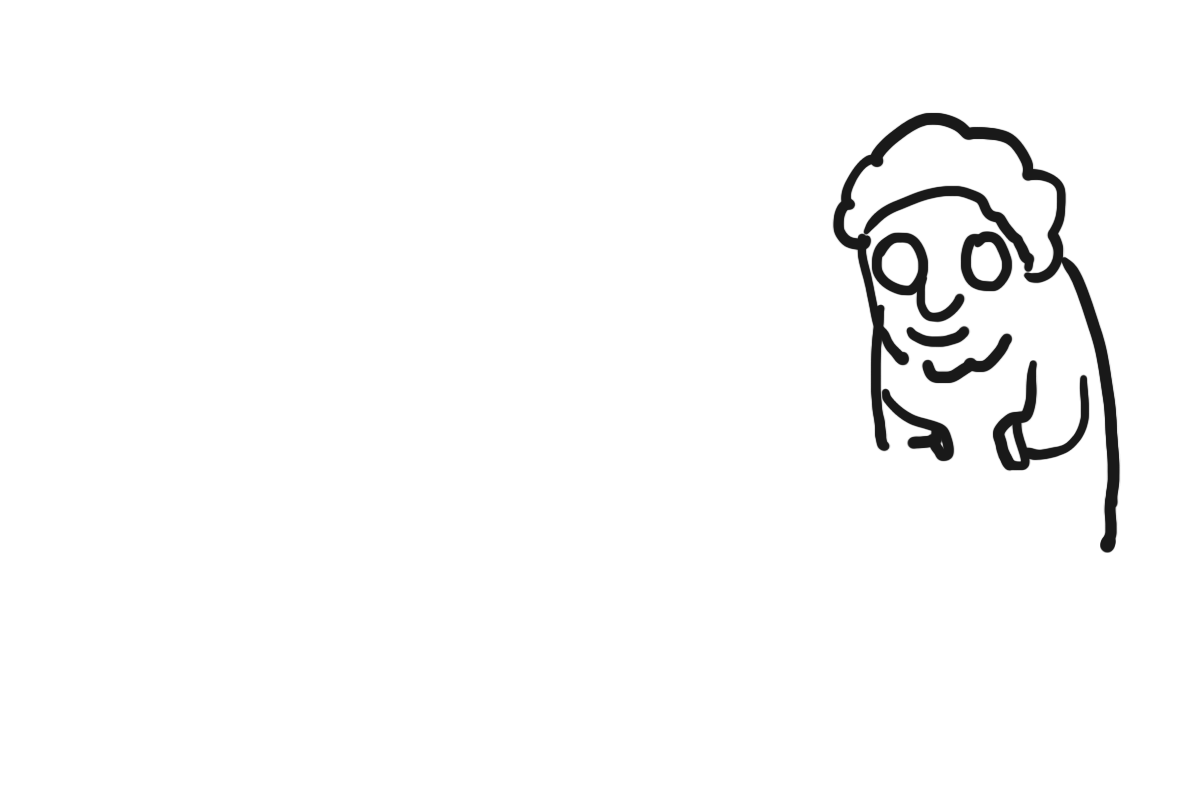
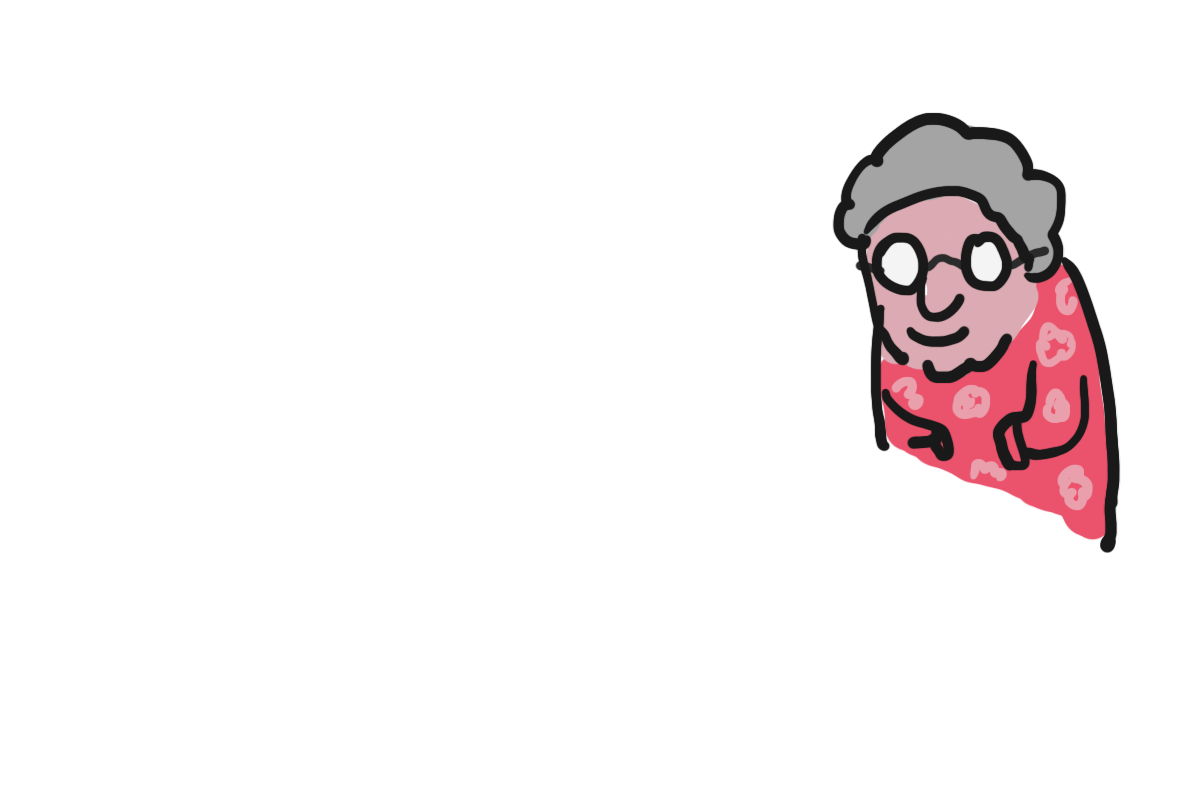
yayy

Changed region(s): [[0.6783, 0.1562, 0.925, 0.6875]]

diff --git a/view.js b/view.js
@@ -7,7 +7,9 @@ function drawButton(){
 }
 
 function drawKulOMeter(){
-    kulOMeter.innerHTML = kulness;
+    kulOMeter.innerHTML = `Kul-o-Meter:
+    <div style="background-color:blueviolet; width:${kulness}%;">${kulness}</div>
+    `
 }
 function drawView(){
     let htmlString = ``;
@@ -30,7 +32,23 @@ app.innerHTML = htmlString;
 
 function runEvents(){
     let rand = randNumGen();
+    rev.play();
+    if (kulness <= 0){
+        let htmlString = `
+        Grandma is cooler than you...
+        `
+        app.innerHTML = htmlString;
+        app2.innerHTML ="";
+    }
+    else if (kulness >= 100){
+        let htmlString = `
+        You're just too cool!
+        `
+        app.innerHTML = htmlString;
+        app2.innerHTML ="";
+    }
 
+    else if (rand == 1 || rand == 2 || rand == 3 || rand == 4){
     prompt.targetLayer = rand;
     prompt.active = true;
     prompt.message = messages[rand];
@@ -38,8 +56,65 @@ function runEvents(){
     let htmlString = `
     <label style="font-size: 36px;">${prompt.message}</label>
     <button onclick="yesOption(${rand})">YES</button>
+    <button onclick="noOption(${rand})">NO</button>
     `
 
     app2.innerHTML = htmlString;
+
+    }
+// kompis elseif
+    else if(rand == 5){
+        prompt.targetLayer = rand;
+        prompt.active = true;
+        prompt.message = messages[rand];
+        layers[rand].visible = true;
+        drawView()
+
+        let htmlString = /*html*/`
+        <label style="font-size: 36px;">${prompt.message}</label>
+        <button onclick="greetBuddy(1)">Wave</button>
+        <button onclick="greetBuddy(2)">Flip Off</button>
+        <button onclick="greetBuddy(3)">Bro Fist</button>
+        `
+        app2.innerHTML = htmlString;
+    }
+// bestemor elseif
+    else if(rand == 6){
+        prompt.targetLayer = rand;
+        prompt.active = true;
+        prompt.message = messages[rand];
+        layers[rand].visible = true;
+        drawView()
+
+        let htmlString = `
+        <label style="font-size: 36px;">${prompt.message}</label>
+        <button onclick="grandma('stop')">YES</button>
+        <button onclick="grandma('drive')">NO</button>
+
+        `
+        app2.innerHTML = htmlString;
+    }
 }
 
+function grandma(stopOrDrive){
+    if(stopOrDrive=='stop'){
+        kulness = kulness-5;
+        let htmlString = `
+        <div style="font-size: 36px;">You spend a long time listening to grandma and loose kulness</div>
+        `
+        app2.innerHTML = htmlString;
+        drawKulOMeter()
+    }
+    else if(stopOrDrive=='drive'){
+        kulness = kulness-10;
+        let htmlString = `
+        <div style="font-size: 36px;">Grandma is mad you ignored her and smacks your car with her purse causing you to loose kulness</div>
+        `
+        app2.innerHTML = htmlString;
+        drawKulOMeter()
+    }
+
+    layers[6].visible = false;
+    drawView();
+    setTimeout(runEvents, 4000)
+}

diff --git a/model.js b/model.js
@@ -1,15 +1,17 @@
-let kulness = 10;
-let kompisNumber = Math.floor(Math.random()*3)+1;
+let kulness = 20;
 const kulOMeter = document.getElementById('kulometerID');
 const app = document.getElementById('appID');
 const app2 = document.getElementById('app2ID');
+const rev = document.getElementById('revID');
 
 let layers = [
     {id: "bg", src: "media/bg.png", zIndex: 0, visible: true},
-    {id: "wunderbaum", src: "media/wunderbaum.png", zIndex: 1, visible: false},
-    {id: "ekorn", src: "media/ekorn.png", zIndex: 2, visible: false},
-    {id: "kompis", src: "media/kompis.png", zIndex: 3, visible: false},
-    {id: "bestemor", src: "media/bestemor.png", zIndex: 4, visible: false}
+    {id: "wunderbaum", src: "media/wunderbaum.png", zIndex: 2, visible: false},
+    {id: "ekorn", src: "media/ekorn.png", zIndex: 3, visible: false},
+    {id: "paint", src: "media/paint.png", zIndex: 1, visible: false},
+    {id: "ratt", src: "media/ratt.png", zIndex: 4, visible: false},
+    {id: "kompis", src: "media/kompis.png", zIndex: 5, visible: false},
+    {id: "bestemor", src: "media/bestemor.png", zIndex: 6, visible: false}
 ]
 
 let prompt = [
@@ -17,8 +19,10 @@ let prompt = [
 ]
 
 let messages = {
-    1: "Pick up wunderbaum?",
-    2: "Pick up ekorn?",
-    3: "How do you greet your buddy?",
-    4: "Stop for grandma?"
+    1: "You drive past a wunderbaum, put it in your car?",
+    2: "You spot a squirrel, put it in your car?",
+    3: "You spot some paint on the side of the road, paint car?",
+    4: "You drive past some pink fur, add it to your car?",
+    5: "Your buddy stops you on your drive, what do you respond?",
+    6: "Grandma is waiting up ahead, stop to see what she wants?"
 }

diff --git a/controller.js b/controller.js
@@ -1,29 +1,61 @@
-function startGame(){
+function startGame() {
     drawKulOMeter()
     drawView()
     setTimeout(runEvents, 3000);
 }
 
-function randNumGen(){
-    let randomNumber = Math.floor(Math.random() * 4) + 1;
+function randNumGen() {
+    let randomNumber = Math.floor(Math.random() * 6) + 1;
     return randomNumber;
 }
 
 
-
-function yesOption(rand){
-    if (rand == 3){
-        score = score + 10;
+function yesOption(rand) {
+    app2.innerHTML="";
+    if (rand == 1 || rand == 3) {
+        kulness = kulness + 10;
     }
-    else if (rand == 3){
-        score = score - 10;
+    else if (rand == 2 || rand == 4) {
+        kulness = kulness - 10;
     }
     layers[rand].visible = true;
-    renderLayers();
-    drawScore();
+    drawView();
+    drawKulOMeter();
     setTimeout(startGame, 3000);
 }
 
-function noOption(rand){
+function noOption(rand) {
+    app2.innerHTML="";
     setTimeout(runEvents, 3000);
+}
+
+function greetBuddy(chosenGreeting) {
+    app2.innerHTML="";
+    let kompisNumber = Math.floor(Math.random() * 3) + 1;
+    if (chosenGreeting === kompisNumber) {
+        kulness = kulness + 10;
+        
+        let htmlString = `
+        <div style="font-size: 36px;">Hehe, you're allright, bro...</div>
+        `
+        app2.innerHTML = htmlString;
+
+        drawKulOMeter();
+    }
+
+    else if(chosenGreeting !== kompisNumber){
+        kulness = kulness - 10;
+        
+        let htmlString = `
+        <div style="font-size: 36px;">Get outta here, douchebag!</div>
+        `
+        app2.innerHTML = htmlString;
+
+        drawKulOMeter();
+    }
+
+    layers[5].visible = false;
+    drawView();
+    setTimeout(runEvents, 3000);
+
 }

diff --git a/index.html b/index.html
@@ -4,11 +4,13 @@
     <meta charset="UTF-8">
     <meta name="viewport" content="width=device-width, initial-scale=1.0">
     <title>Teamoppgave 3</title>
+    <link rel="stylesheet" href="style.css"/>
 </head>
 <body>
     <section id="kulometerID"></section>
     <section id="appID"></section>
     <section id="app2ID"></section>
+    <audio id="revID" src="media/rev.mp3"></audio>
     
     <script src="model.js"></script>
     <script src="view.js"></script>

diff --git a/style.css b/style.css
@@ -1,7 +1,22 @@
 section{
     display: grid;
+    font-weight: bold;
+    font-size: 40px;
 }
 button{
-    width: 100px; 
-    height: 100px;
+    width: 150px; 
+    height: 50px;
+    font-size: 35px;
+}
+
+#kulometerID{
+    grid-template-columns: repeat(5, auto);
+    gap: 10px;
+}
+
+
+#app2ID{
+        grid-column: 1 / 2;
+        grid-row: 1 / 2;
+
 }
